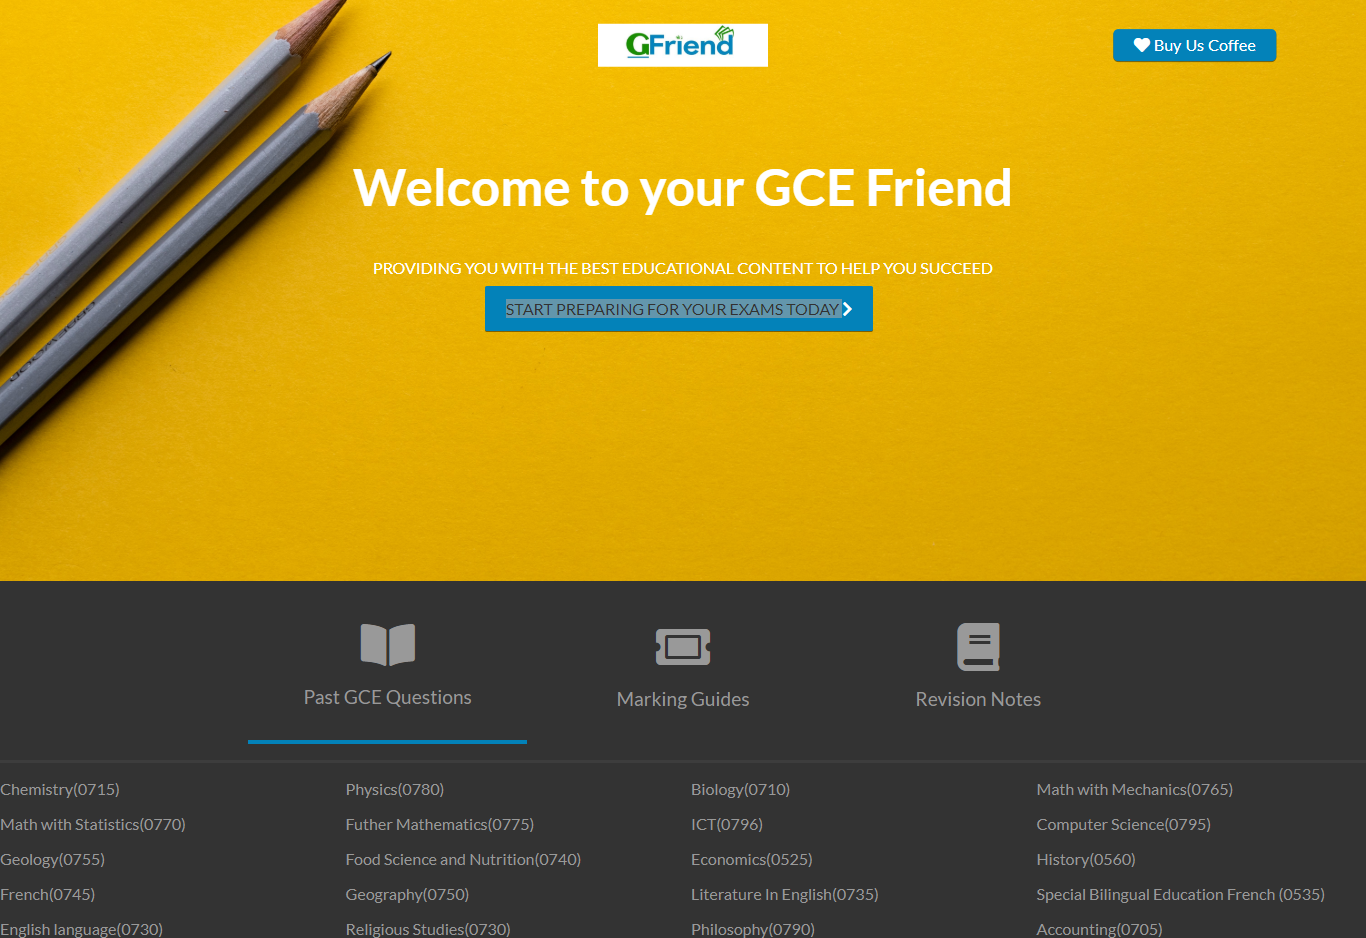
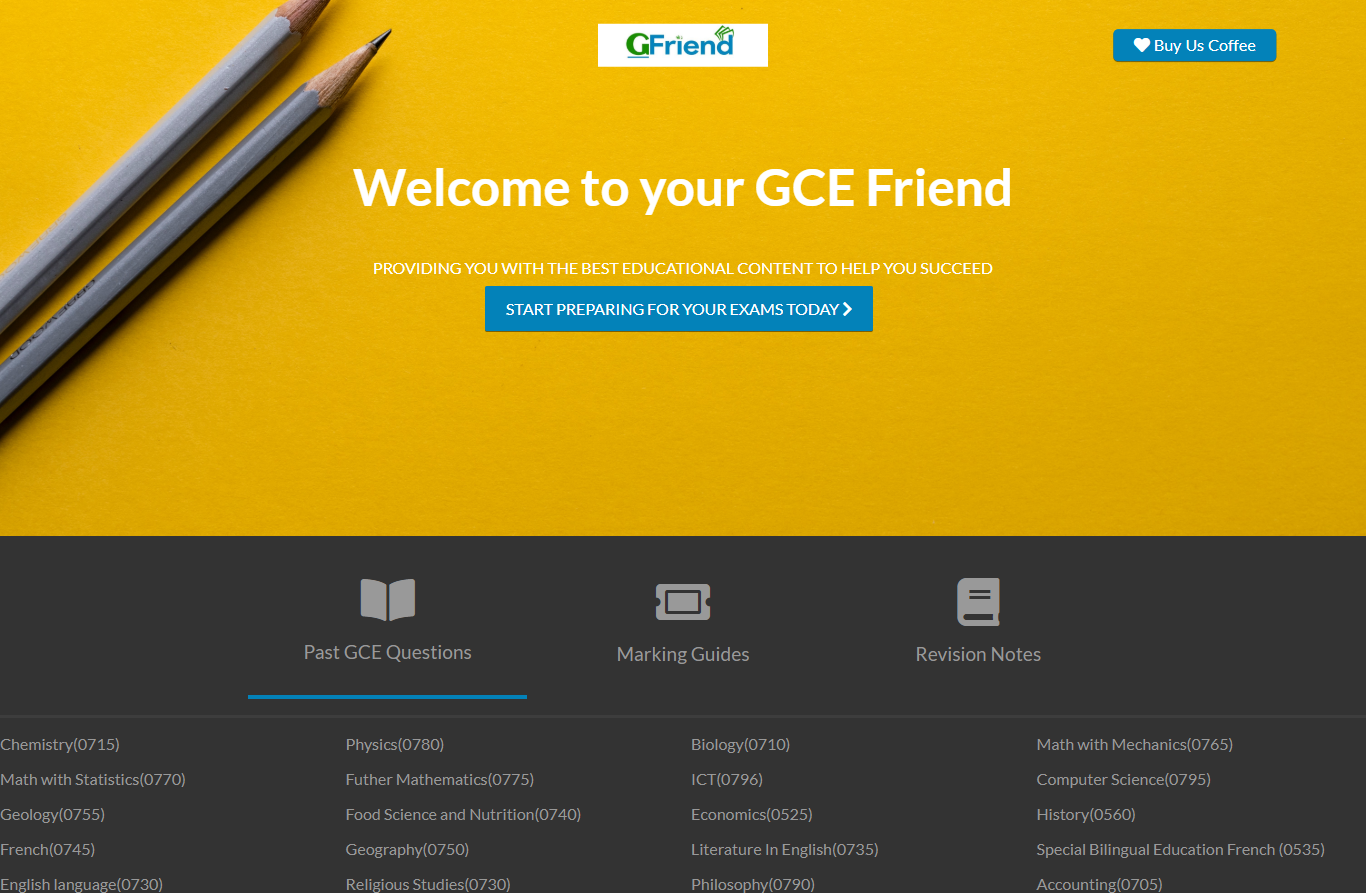
some bg updates

diff --git a/style.css b/style.css
@@ -39,7 +39,7 @@ p {
     width: 100%;
     height: 93vh;
     position: relative;
-    background: url('img/bb.jpg') no-repeat center center/cover;
+    background: url('img/Hero-bg.jpg') no-repeat center center/cover;
 }
 
 .showcase::after {
